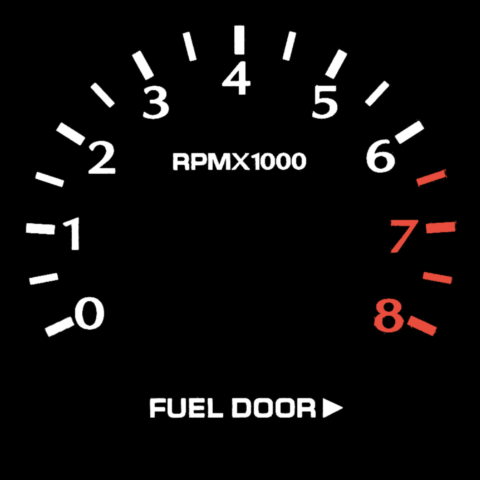
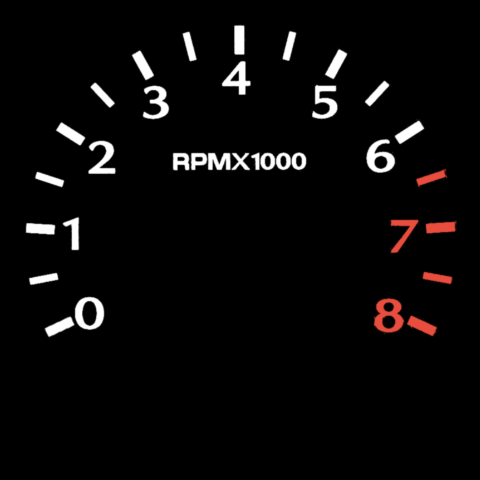
Move fuel-door arrow to fuel face, low-fuel yellow layer, remove FUEL DOOR from tach

Changed region(s): [[0.3125, 0.8125, 0.7188, 0.875]]

diff --git a/tools/alt-faces/fuel_door_arrow.py b/tools/alt-faces/fuel_door_arrow.py
@@ -1,0 +1,35 @@
+"""Owner spec 2026-10-16: remove 'FUEL DOOR' + arrow from the tach (that space becomes the trip/odometer area);
+move the arrow to the fuel face beside the pump icon, scaled to 3/4 of the pump icon height, with the same physical gap
+it had after 'DOOR' on the tach. Pump icon + arrow become a separate A8 layer so firmware can turn them yellow below a
+low-fuel threshold (TBD). Not applied to the ethanol alternate face."""
+import json, numpy as np
+from PIL import Image
+from shapely.geometry import Polygon, box
+FJ=json.load(open('art/faces/faces.json'))['gauges']
+tach=np.asarray(Image.open('art/faces/source/tach_480_with_fuel_door.png').convert('RGB')).astype(float)
+fuel=np.asarray(Image.open('art/faces/source/fuel_480_stock.png').convert('RGB')).astype(float)
+ARROW_TACH=(322,398,343,418); DOOR_END_X=316; FUEL_DOOR_TEXT=(145,394,348,422)
+PUMP=(289,112,338,162)
+# 1) tach without FUEL DOOR
+t2=tach.copy(); x0,y0,x1,y1=FUEL_DOOR_TEXT; t2[y0:y1,x0:x1]=0
+Image.fromarray(t2.astype(np.uint8)).save('art/faces/tach_480.png')
+# 2) arrow scaled to 3/4 of the pump height, gap = DOOR->arrow gap in mm
+x0,y0,x1,y1=ARROW_TACH; arrow=tach[y0-1:y1+1,x0-1:x1+1].max(2)/255.0
+gap_mm=(ARROW_TACH[0]-DOOR_END_X)/FJ['tach']['px_per_mm']; gap_px=gap_mm*FJ['fuel']['px_per_mm']
+ph=PUMP[3]-PUMP[1]; H=round(0.75*ph); W=round(arrow.shape[1]*H/arrow.shape[0])
+a=np.asarray(Image.fromarray((arrow*255).astype(np.uint8)).resize((W,H),Image.LANCZOS)).astype(float)/255
+ax0=int(round(PUMP[2]+gap_px)); ay0=int(round((PUMP[1]+PUMP[3])/2-H/2))
+layer=np.zeros((480,480)); px0,py0,px1,py1=PUMP
+layer[py0:py1,px0:px1]=fuel[py0:py1,px0:px1].max(2)/255.0
+layer[ay0:ay0+H,ax0:ax0+W]=np.maximum(layer[ay0:ay0+H,ax0:ax0+W],a)
+base=fuel.copy(); base[py0:py1,px0:px1]=0                      # base face without the pump (it lives in the layer)
+Image.fromarray(base.astype(np.uint8)).save('art/faces/fuel_base_480.png')
+Image.fromarray((layer*255).astype(np.uint8),'L').save('art/faces/fuel_icon_A8.png')
+day=np.maximum(base,layer[...,None]*255); Image.fromarray(day.astype(np.uint8)).save('art/faces/fuel_480.png')
+g=FJ['fuel']; S=json.load(open('hardware/overlay/overlay_mm.json'))['shapes']
+hole=Polygon([((x-g['image_center_mm'][0])*g['px_per_mm']+240,240-(y-g['image_center_mm'][1])*g['px_per_mm']) for x,y in S['fuel']])
+ab=box(ax0,ay0,ax0+W,ay0+H)
+info=dict(pump_bbox_px=PUMP,arrow_bbox_px=[ax0,ay0,ax0+W,ay0+H],arrow_height_ratio_to_pump=0.75,gap_mm=round(gap_mm,2),gap_px=round(gap_px,1),
+          layer='fuel_icon_A8.png',base='fuel_base_480.png',low_fuel_color_rgb=[255,200,0],low_fuel_threshold='TBD',
+          arrow_inside_hole=bool(hole.contains(ab)),arrow_margin_px=round(hole.exterior.distance(ab),1))
+json.dump(info,open('art/faces/fuel_icon.json','w'),indent=1); print(info)

diff --git a/tools/alt-faces/fuel_low_preview.py b/tools/alt-faces/fuel_low_preview.py
@@ -1,0 +1,24 @@
+"""Preview: fuel face with the moved door arrow; normal vs low-fuel (pump + arrow yellow), day and night."""
+import sys, json, numpy as np
+from PIL import Image, ImageDraw
+sys.path.insert(0,'tools/night'); import night_preview as npv
+I=json.load(open('art/faces/fuel_icon.json')); Y=np.array(I['low_fuel_color_rgb'],float)
+layer=np.asarray(Image.open('art/faces/fuel_icon_A8.png')).astype(float)/255
+base=np.asarray(Image.open('art/faces/fuel_base_480.png').convert('RGB'))
+def render(night,low,ang):
+    b=npv.night_face(base) if night else base.astype(float)
+    col=Y if low else (npv.C['printing_orange'] if night else np.array([255.,255,255]))
+    img=b*(1-layer[...,None])+layer[...,None]*col
+    g=npv.F['fuel']; n=npv.N['gauges']['fuel']
+    if night:
+        hm=npv.halo(img.shape,g['pivot_px'],g['hub_radius_mm']*g['px_per_mm']); img=img*(1-hm[...,None])+npv.C[npv.H['color']]*hm[...,None]
+    im=Image.fromarray(np.clip(img,0,255).astype(np.uint8)).convert('RGBA')
+    nd=npv.needle_img(f"art/needles/{n['needle_png']}",night); px,py=n['pivot_px']
+    W=int(2*max(nd.size)+4); cv=Image.new('RGBA',(W,W)); cv.paste(nd,(int(W/2-px),int(W/2-py)))
+    cv=cv.rotate(-ang,resample=Image.BICUBIC,center=(W/2,W/2)); cx,cy=g['pivot_px']; im.alpha_composite(cv,(int(cx-W/2),int(cy-W/2)))
+    hub=Image.open(f"art/needles/{n['hub_png']}").convert('RGBA'); im.alpha_composite(hub,(int(cx-hub.width/2),int(cy-hub.height/2)))
+    return im.convert('RGB')
+cases=[('day, normal',False,False,-60),('day, low fuel',False,True,-108),('night, normal',True,False,-60),('night, low fuel',True,True,-108)]
+out=Image.new('RGB',(4*490-10,480+34),(30,30,30)); d=ImageDraw.Draw(out)
+for i,(t,nt,lo,a) in enumerate(cases): out.paste(render(nt,lo,a),(i*490,34)); d.text((i*490+6,10),t,fill=(220,220,220))
+out.save('art/preview/fuel_lowfuel_preview.png'); print('ok')

diff --git a/tools/alt-faces/ethanol_face.py b/tools/alt-faces/ethanol_face.py
@@ -7,7 +7,9 @@ from PIL import Image, ImageDraw
 from scipy import ndimage
 from shapely.geometry import Polygon, Point
 FJ=json.load(open('art/faces/faces.json'))['gauges']; NJ=json.load(open('art/needles/needles.json'))
-def load(k): return np.asarray(Image.open(f'art/faces/{k}_480.png').convert('RGB')).astype(float)
+def load(k):
+    p='art/faces/source/fuel_480_stock.png' if k=='fuel' else f'art/faces/{k}_480.png'   # stock fuel art: no door arrow on the ethanol face
+    return np.asarray(Image.open(p).convert('RGB')).astype(float)
 fuel=load('fuel'); tach=load('tach')
 def glyph(img,box):  # alpha mask (0..1) from brightness, colour-independent
     x0,y0,x1,y1=box; return img[y0:y1,x0:x1].max(2)/255.0

diff --git a/docs/PLAN.md b/docs/PLAN.md
@@ -23,6 +23,7 @@ Status: Phase 0 (discovery). Prepared 2026-10-12. Rev 2: decisions log added (se
 | 2026-10-14 | The cluster can't be scanned non-destructively. v2 faces and overlay rebuilt from needle-free photos with geometric rectification (section 4.2d). |
 | 2026-10-14 | Frame leveled: rotated 2.17° CCW. Printed text (RPMX1000, FUEL DOOR, MPH, km/h, TYPE AC, MI) measured 2.05–2.30° clockwise; it now reads 0.0°. Dial sweeps are within 0.5° of symmetric about vertical. Tach 0 tick rebuilt from the 1000 rpm tick (the knob post hid its end); the stop-pin mask by the 8 was tightened. |
 | 2026-10-14 | Odometer goes digital (owner): the drum module is too large to keep (rear photos IMG_7579/7580/7582). Odometer is drawn in the bottom of the speedo face, trip meter where FUEL DOOR is printed on the tach. Exact stock text placement is not required. Speedo must stay stock size; the tach may shrink slightly. The white rear body will be trimmed to take the screens. |
+| 2026-10-16 | FUEL DOOR (owner): the words FUEL DOOR are removed from every tach face (that area becomes the trip/odometer readout). The arrow moves to the fuel face beside the pump icon at 3/4 of the pump height (40 x 38 px), with the same 1.08 mm gap it had after "DOOR"; it sits 2 mm inside the hole. Not on the ethanol face. The pump icon and arrow form a separate A8 layer (`art/faces/fuel_icon_A8.png`, base face `art/faces/fuel_base_480.png`) so the firmware can turn both yellow (placeholder RGB 255,200,0) below a low-fuel threshold still to be decided. Fuel face only, never the ethanol face; the yellow applies day and night. Stock sources are kept in `art/faces/source/`. Files: `tools/alt-faces/fuel_door_arrow.py`, `art/faces/fuel_icon.json`, `art/preview/fuel_lowfuel_preview.png`. |
 | 2026-10-16 | Boost alternate tach face, MOCK (daylight only): a boost sub-dial from the owner's Lamco TURBO gauge photo (`art/boost/ref_IMG_7566.jpg`), MPa -0.10 to +0.15, 26 ticks 12 deg apart, -0.10 at 151.1 deg. The ticks are redrawn and the labels lifted from the photo; the hidden 0 is rebuilt from the 0 of ".05"; no logo, screws or outer ring. White on the same black plane, concentric with the tach, tick outer radius 107 px (half the tach's 214 px). The boost needle is the tach master needle scaled to 0.915 of the sub-dial radius, drawn under the tach needle so its hub is hidden. Owner 2026-10-16: TURBO removed from the sub-dial, and RPMX1000 removed from the tach face in boost mode. Files: `tools/alt-faces/boost_face.py`, `tools/alt-faces/tach_boost_mock.py`, `art/boost/`, `art/preview/tach_boost_preview.png`. |
 | 2026-10-14 | Oil-temp alternate for the temp gauge: the coolant icon (ISO 7000-0246) is replaced by ISO 2575 F.05 "Engine oil temperature" (ISO 7000-2426), extracted from the ISO 2575:2010 Annex F table, emboldened toward the stock icon's stroke weight, and placed 74 x 54 px at the coolant icon position (44 px inside the hole). C/H, the red hot tick and the blue cold tick are unchanged; only the firmware calibration differs. Files: `tools/alt-faces/oil_temp_face.py`, `art/faces/temp_oil_480.png`, `art/preview/temp_oil_preview.png`. |
 | 2026-10-14 | Controls (owner): the stock trip-reset stalk goes away with the cluster internals, so all functions move to one pad. PROPOSED: Blink Marine PKP-2300-SI 6-key CAN keypad (CANopen, 12 V, AT04-4P) on the Haltech bus at 1 Mbit/s, read by the hub. Keys: (1) temp slot coolant/oil, (2) fuel slot level/ethanol, (3) overlay toggle (AFR later), (4) trip reset (hold 2 s), (5-6) spare for the hub or the ECU via GCAN. The hub stores each gauge's function index and overlay bits in NVS and broadcasts them in frame 0x6A1; key LEDs show state. Before choosing the node ID, sniff the bus for collisions with the keypad's CANopen IDs (0x180/0x200/0x580/0x600/0x700 + node). The hub stays behind the cluster. |
